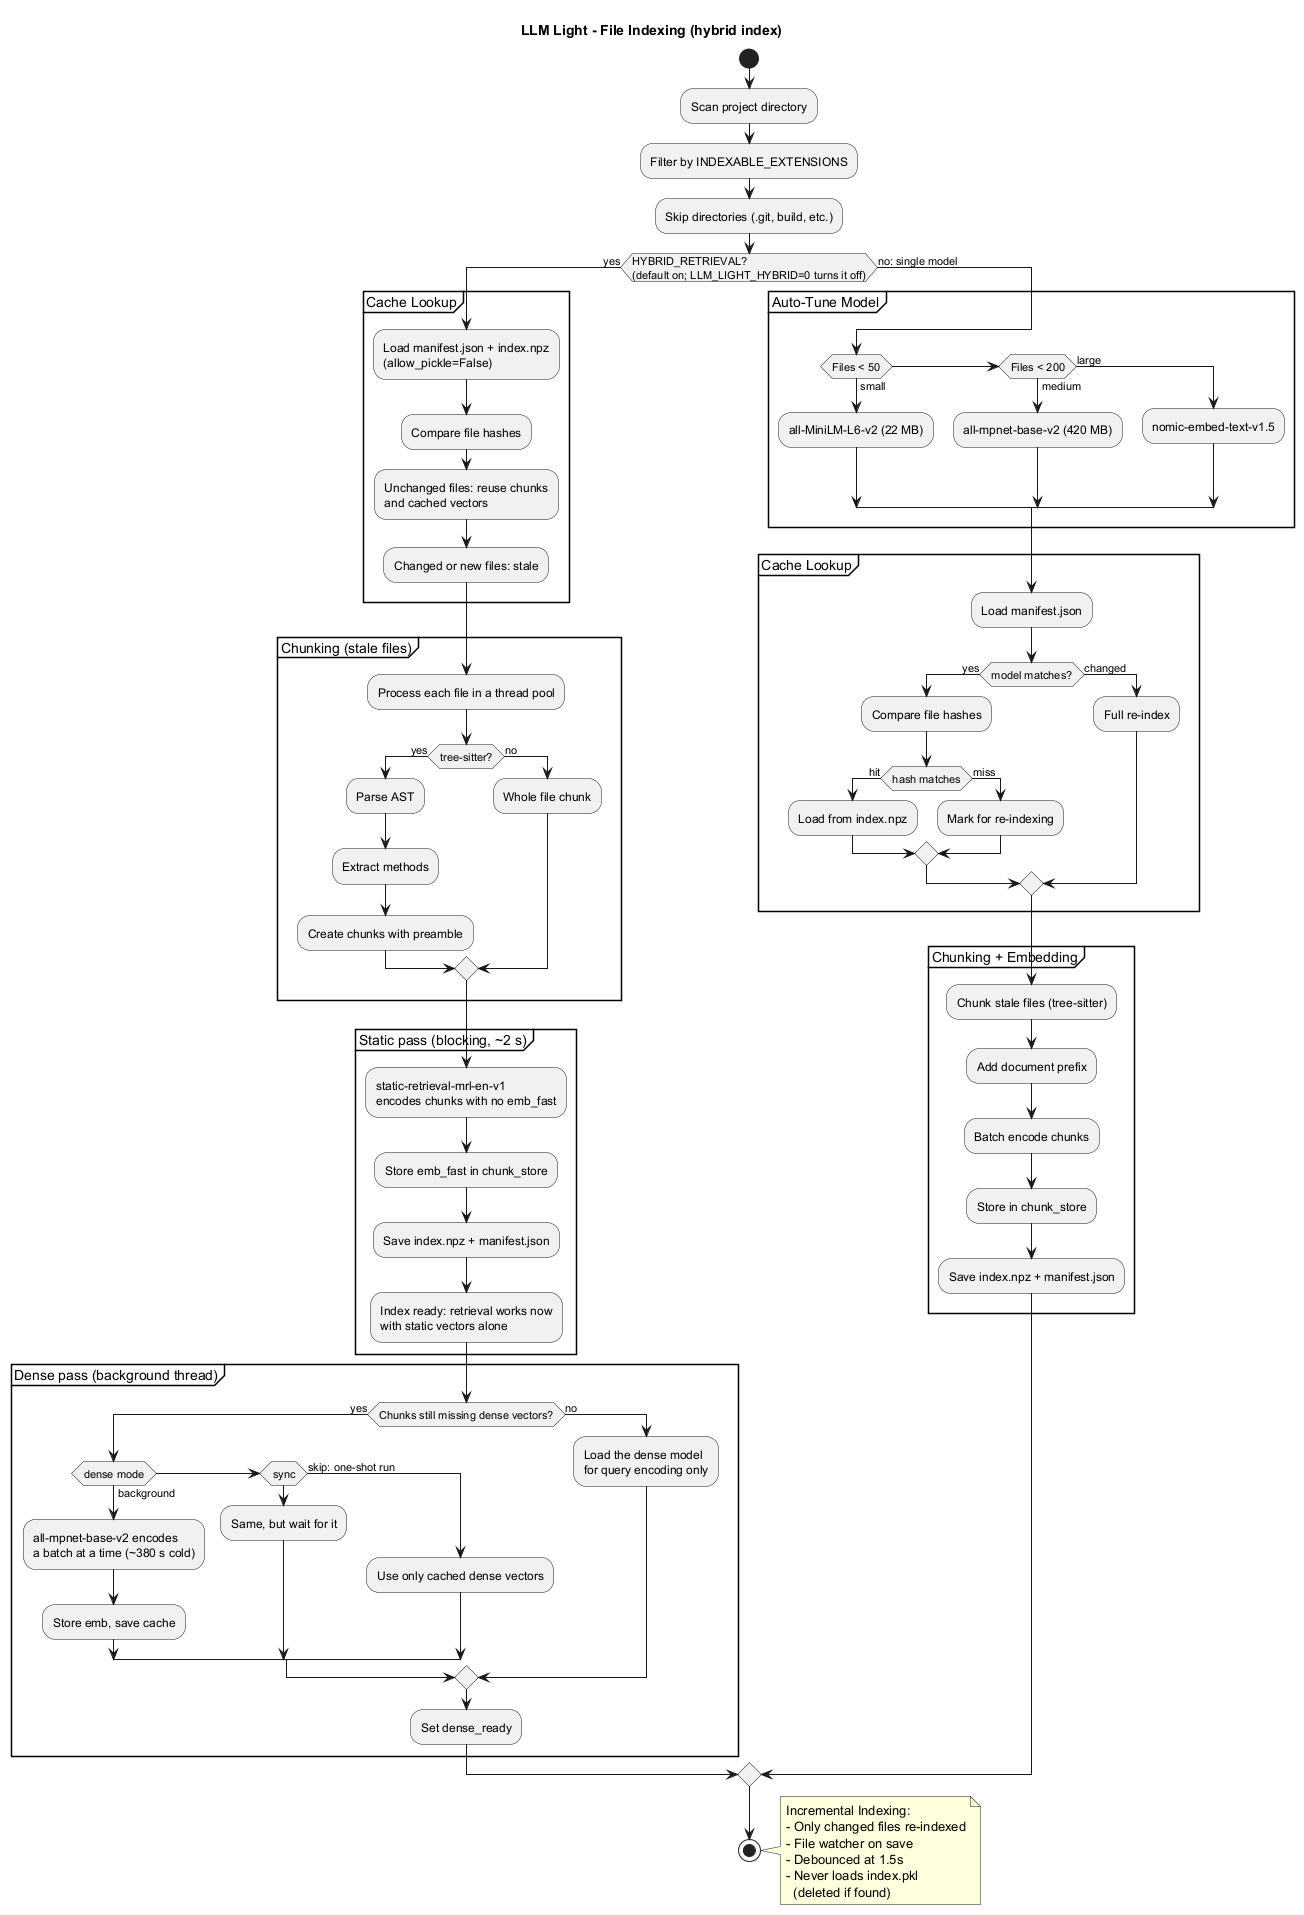
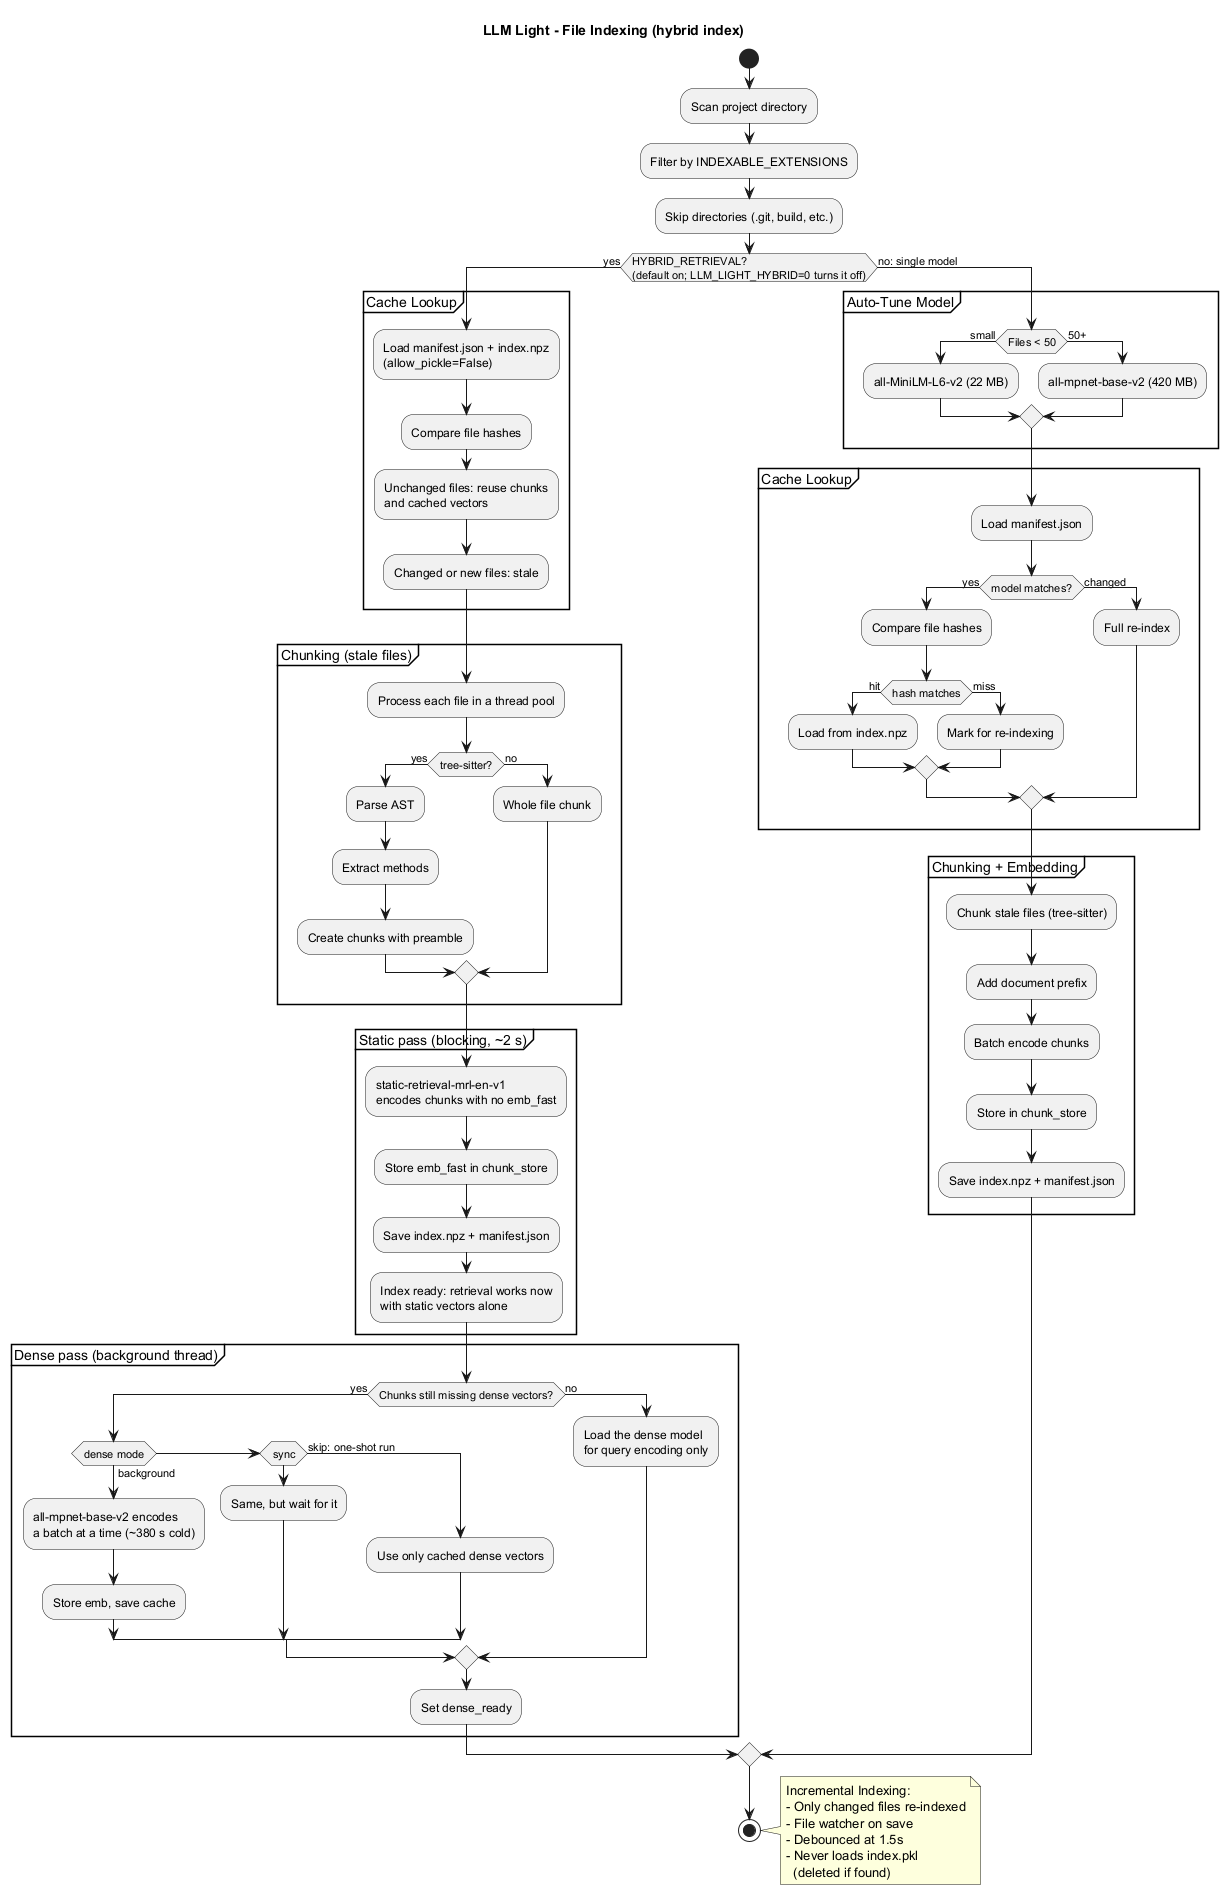
Pick all-mpnet-base-v2 for large projects in dense-only mode
With LLM_LIGHT_HYBRID=0, auto_tune chose nomic-ai/nomic-embed-text-v1.5
for a project of 200 or more files. With the dependencies
requirements.txt installs today (transformers 5.23.0,
sentence-transformers 6.3.0) that model fails on its first encode:
"'NomicBertModel' object has no attribute
'get_extended_attention_mask'", reproduced through
executor._load_embedding_model. Large projects now get
all-mpnet-base-v2, the dense model hybrid mode already uses.

The three tests that pinned the nomic choice (250 files in
test_executor.py and test_llm_light.py, exactly 200) now expect mpnet;
they failed before the change. The retrieval benchmark's copy of the
selection, the README, indexing.md (table and diagram), BENCHMARKS.md
and indexing_flow.puml with its re-rendered PNG follow. The nomic
prefixes and size entry stay as generic support; nothing selects nomic
now.

Not measured: nomic against mpnet on a large project, since nomic does
not load. The test.yml steps pass locally.

Fixes #306

Changed region(s): [[0.0, 0.0, 1.0, 0.934], [0.2785, 0.8095, 0.8046, 0.9963], [0.2166, 0.8406, 0.2476, 0.8718]]

diff --git a/tests/unit/test_llm_light.py b/tests/unit/test_llm_light.py
@@ -683,7 +683,8 @@ class TestAutoTune(unittest.TestCase):
             auto_tune(files, quiet=True)
             self.assertEqual(cl.EMBED_MODEL, "all-mpnet-base-v2")
 
-    def test_large_repo_selects_nomic(self):
+    def test_large_repo_selects_mpnet(self):
+        # nomic-embed-text-v1.5 fails to load with transformers 5 (#306).
         import llm_light as cl
         files = self._make_files(250)
         with patch("llm_light.SentenceTransformer") as mock_st, \
@@ -692,7 +693,7 @@ class TestAutoTune(unittest.TestCase):
             cl.EMBED_MODEL = None
             cl.embedder = None
             auto_tune(files, quiet=True)
-            self.assertEqual(cl.EMBED_MODEL, "nomic-ai/nomic-embed-text-v1.5")
+            self.assertEqual(cl.EMBED_MODEL, "all-mpnet-base-v2")
 
     def test_sets_top_k_from_chunks(self):
         import llm_light as cl
@@ -5865,8 +5866,8 @@ class TestAutoTuneBoundaries(unittest.TestCase):
             auto_tune(files, quiet=True)
         self.assertEqual(cl.EMBED_MODEL, "all-mpnet-base-v2")
 
-    def test_exactly_200_files_selects_nomic(self):
-        """Boundary: exactly 200 files should select nomic."""
+    def test_exactly_200_files_selects_mpnet(self):
+        """Boundary: 200 files and up get all-mpnet-base-v2, not nomic (#306)."""
         import llm_light as cl
         files = self._make_files(200)
         with patch("llm_light.SentenceTransformer") as mock_st:
@@ -5874,7 +5875,7 @@ class TestAutoTuneBoundaries(unittest.TestCase):
             cl.EMBED_MODEL = None
             cl.embedder = None
             auto_tune(files, quiet=True)
-        self.assertEqual(cl.EMBED_MODEL, "nomic-ai/nomic-embed-text-v1.5")
+        self.assertEqual(cl.EMBED_MODEL, "all-mpnet-base-v2")
 
     def test_top_k_clamped_to_min_2(self):
         """Very large average chunk size should clamp TOP_K to 2."""

diff --git a/tests/benchmarks/benchmark_retrieval.py b/tests/benchmarks/benchmark_retrieval.py
@@ -39,8 +39,8 @@ METHODOLOGY
    c. Chunk files using the exact same tree-sitter logic as llm_light.py
       (lines 600-678), with whole-file fallback if tree-sitter is missing.
    d. Embed chunks with the same SentenceTransformer model that llm_light
-      would auto_tune to (lines 692-700): MiniLM for <50 files, mpnet for
-      50-199, nomic for 200+.
+      would auto_tune to: MiniLM for <50 files, mpnet from 50 up (nomic was
+      picked for 200+ until it stopped loading with transformers 5, #306).
    e. Embed the problem_statement (using the same query prefix convention).
    f. Rank chunks by cosine similarity. Extract unique file paths from top-K.
    g. Compare against gold files parsed from the instance's patch field.
@@ -170,11 +170,10 @@ SKIP_DIRS = {
 INDEXABLE_EXTENSIONS = {".java", ".py", ".js", ".go", ".rs", ".ts", ".tsx"}
 
 # Embedding model selection thresholds -- from llm_light.py auto_tune() lines 692-700
-# < 50 files -> MiniLM, 50-199 -> mpnet, 200+ -> nomic
+# < 50 files -> MiniLM, 50+ -> mpnet (nomic for 200+ until #306)
 EMBED_THRESHOLDS = [
     (50,  "all-MiniLM-L6-v2"),
-    (200, "all-mpnet-base-v2"),
-    (None, "nomic-ai/nomic-embed-text-v1.5"),
+    (None, "all-mpnet-base-v2"),
 ]
 
 # Nomic model needs explicit prefixes -- from llm_light.py lines 204-205
@@ -341,7 +340,7 @@ def select_embed_model(n_files: int) -> str:
     for threshold, model in EMBED_THRESHOLDS:
         if threshold is None or n_files < threshold:
             return model
-    return EMBED_THRESHOLDS[-1][1]  # nomic fallback
+    return EMBED_THRESHOLDS[-1][1]
 
 
 class TokenOverlapEmbedder:

diff --git a/tests/unit/test_executor.py b/tests/unit/test_executor.py
@@ -197,8 +197,9 @@ class TestAutoTune(unittest.TestCase):
             auto_tune(files, quiet=True)
         self.assertEqual(_state.EMBED_MODEL, "all-mpnet-base-v2")
 
-    def test_large_repo_selects_nomic(self):
-        print("\n  ▶ TestAutoTune.test_large_repo_selects_nomic")
+    def test_large_repo_selects_mpnet(self):
+        # nomic-embed-text-v1.5 fails to load with transformers 5 (#306).
+        print("\n  ▶ TestAutoTune.test_large_repo_selects_mpnet")
         files = self._make_files(250)
         _state.EMBED_MODEL = None
         _state.embedder = None
@@ -206,7 +207,7 @@ class TestAutoTune(unittest.TestCase):
              patch("llm_light.executor._Spinner"):
             mock_st.return_value = MagicMock()
             auto_tune(files, quiet=True)
-        self.assertEqual(_state.EMBED_MODEL, "nomic-ai/nomic-embed-text-v1.5")
+        self.assertEqual(_state.EMBED_MODEL, "all-mpnet-base-v2")
 
     def test_sets_top_k_from_chunks(self):
         print("\n  ▶ TestAutoTune.test_sets_top_k_from_chunks")

diff --git a/llm_light/executor.py b/llm_light/executor.py
@@ -308,10 +308,11 @@ def auto_tune(source_files, chunks=None, quiet=False, load_model=True):
     n = len(source_files)
     if n < 50:
         chosen_model = "all-MiniLM-L6-v2"
-    elif n < 200:
-        chosen_model = "all-mpnet-base-v2"
     else:
-        chosen_model = "nomic-ai/nomic-embed-text-v1.5"
+        # Not nomic-embed-text-v1.5 above 200 files any more: with transformers 5
+        # it fails on its first encode (#306). all-mpnet-base-v2 is the dense
+        # model the default hybrid mode uses.
+        chosen_model = "all-mpnet-base-v2"
 
     # Only load model if explicitly requested AND (model changed or not loaded)
     # This prevents loading on warm cache hits

diff --git a/CHANGELOG.md b/CHANGELOG.md
@@ -19,6 +19,7 @@ All notable changes to `llm-light` are listed here. Versions follow [Semantic Ve
 - **Retrieved code keeps its strings (#266).** Comments were removed from retrieved code with regexes that knew nothing about strings, so `"#ff8800"` became `"`, every `"https://..."` in Java, JavaScript, TypeScript, Go and Rust was cut at `//`, and Go's `regexp.MustCompile("a//b")` lost its tail. Comments are now taken from the tree-sitter parse, which knows a comment from a string, also in a single method body. On this repository 87 of 3,398 chunks now keep text they lost, for +0.26% retrieved-context tokens. Without a grammar the old regexes remain the fallback. That copied code still has no comments, so a SEARCH block built from it can miss (#290).
 - **The project walk leaves out what `.gitignore` excludes, and no longer descends into skipped directories (#267).** It ran `Path(".").rglob("*")` and filtered afterwards, so a `venv`, `dist` or generated-code directory was indexed, embedded and listed in the skeleton, and `node_modules` was walked on every start (46,102 paths in one Node project to keep 2,759). In a git work tree the walk is now `git ls-files --cached --others --exclude-standard`; elsewhere `os.walk` prunes skipped directories. `venv` and `dist` join `SKIP_DIRS`, which the API-mode tools and the affected-test search now share instead of keeping their own lists. On this repository: 252 files to 246, about 1,033 to 1,002 skeleton-tree tokens, and the walk from 507 ms to 25 ms.
 - **The skeleton's directory tree follows the files on disk (#268).** The project walk was cached at startup and never refreshed, so the tree in the system prompt kept deleted files and missed new ones, including a file the model had created a turn earlier, and a notebook added mid-session never brought in `NotebookEdit`. A tree refresh (the watcher's create, delete and move events) and a full skeleton rebuild now walk again; with #267's `git ls-files` that takes about 25 ms on this repository. Tested in `tests/unit/test_skeleton.py` (`TestTreeFollowsTheDisk`), including a create event through the real watcher handler.
+- **Dense-only mode works on large projects again (#306).** With `LLM_LIGHT_HYBRID=0`, a project of 200 or more files got `nomic-ai/nomic-embed-text-v1.5`, which fails on its first encode with the transformers 5 that `requirements.txt` now installs (`'NomicBertModel' object has no attribute 'get_extended_attention_mask'`). It now gets all-mpnet-base-v2, the dense model the default hybrid mode uses. The retrieval benchmark's own copy of the choice changes with it. The default hybrid mode was not affected.
 - **Importing llm_light no longer patches `pathlib.Path.unlink` for the whole process (#278).** The package replaced it with a version that swallowed `PermissionError`, a workaround for a test sandbox, so in llm_light and in every library a file that could not be deleted looked deleted. The patch is gone; the suite passes on Windows without it. Pruning old saved conversations, the one best-effort delete that could now fail into a command, skips a file it cannot remove.
 - **The retrieval budget counts what is sent (#288).** A second chunk from a file already in the context was charged its whole text, file preamble included, though the context sends that preamble once per file, so the budget filled before the context did. It is now charged its body. `benchmark_models.py --budgets` (which now reports rendered tokens): right file sent at high effort 33 of 37 instead of 32, other efforts unchanged, mean tokens sent within 1%.
 - **A reply cut off at the output limit no longer applies half its edits (#271).** With an API key, a reply that stopped at `max_tokens` inside an edit block came back with only the blocks before the cut, which were applied and committed without a word: one file of a two-file refactor. The stop reason now reaches the turn: a cut-off reply's edits are not applied, and llm_light says the reply was cut off. A refusal gets a line too. Not checked against the live API (#71).

diff --git a/README.md b/README.md
@@ -378,7 +378,7 @@ Code is indexed twice, by two models that are good at different questions:
 * **`static-retrieval-mrl-en-v1`** (static embeddings, no transformer): indexes this repo's 1,400 chunks in about 2 s on a CPU, so retrieval works from the first question. Best of six models measured at questions that name code ("where is `retry_with_backoff` used?").
 * **`all-mpnet-base-v2`**: about 380 s for the same chunks, so it runs in the background while you work, and its vectors are cached. Best at questions that describe behaviour without naming it ("where do we wait longer between attempts?").
 
-Once both are ready, each chunk's similarity to the question is z-scored per model and averaged. On 35 questions about this repo, the file that answers the question reached the model's context for 23, against 15 with mpnet alone (the setup before this change), and the 6 off-topic questions still got no context. Measure on your own changes with `python tests/benchmarks/benchmark_models.py`. `LLM_LIGHT_HYBRID=0` switches back to a single model picked by repository size (`all-MiniLM-L6-v2` under 50 files, `all-mpnet-base-v2` under 200, `nomic-ai/nomic-embed-text-v1.5` above).
+Once both are ready, each chunk's similarity to the question is z-scored per model and averaged. On 35 questions about this repo, the file that answers the question reached the model's context for 23, against 15 with mpnet alone (the setup before this change), and the 6 off-topic questions still got no context. Measure on your own changes with `python tests/benchmarks/benchmark_models.py`. `LLM_LIGHT_HYBRID=0` switches back to a single model picked by repository size (`all-MiniLM-L6-v2` under 50 files, `all-mpnet-base-v2` from 50 up).
 
 ### 🛡 Security & SBOM
 

diff --git a/docs/BENCHMARKS.md b/docs/BENCHMARKS.md
@@ -184,7 +184,7 @@ Retrieval modes (`--retrieval`, #69):
 
 | Mode | Models | Ranking |
 |---|---|---|
-| `auto` (default, CI) | one, by repo size (MiniLM, mpnet, nomic) | cosine, unfiltered |
+| `auto` (default, CI) | one, by repo size (MiniLM, mpnet) | cosine, unfiltered |
 | `dense` | `--dense-model` (default `DENSE_EMBED_MODEL`, mpnet) | cosine, unfiltered |
 | `static` | `FAST_EMBED_MODEL` | z-scores, `HYBRID_MIN_SCORE` floor, `HYBRID_SCORE_GAP` |
 | `hybrid` | `FAST_EMBED_MODEL` + `--dense-model` | fused z-scores, floors and gap, as llm_light's hybrid index |
@@ -278,8 +278,7 @@ python tests/benchmarks/benchmark_retrieval.py --split dev --retrieval hybrid
 |---|---|
 | HuggingFace dataset | ~50 MB |
 | Embedding model (MiniLM, < 50 files) | 22 MB |
-| Embedding model (mpnet, 50-199 files) | 420 MB |
-| Embedding model (nomic, 200+ files) | ~550 MB |
+| Embedding model (mpnet, 50+ files) | 420 MB |
 | Repo clones (treeless, all 6 repos) | ~300 MB |
 | Embedding cache | ~50–200 MB |
 

diff --git a/docs/architecture/indexing.md b/docs/architecture/indexing.md
@@ -16,8 +16,7 @@ Every chunk gets two vectors (#61). `indexer._index_files_hybrid()` first embeds
 | Repo Size | Model | Size | Use Case |
 |-----------|-------|------|----------|
 | < 50 files | all-MiniLM-L6-v2 | 22 MB | Fast startup |
-| 50-199 files | all-mpnet-base-v2 | 420 MB | Better depth |
-| 200+ files | nomic-embed-text-v1.5 | 275 MB | Optimal recall |
+| 50+ files | all-mpnet-base-v2 | 420 MB | Better depth; nomic-embed-text-v1.5 was picked above 200 files until it stopped loading with transformers 5 (#306) |
 
 ### Method-Level Chunking
 
@@ -112,10 +111,8 @@ else (no: single model)
   partition "Auto-Tune Model" {
     if (Files < 50) then (small)
       :all-MiniLM-L6-v2 (22 MB);
-    elseif (Files < 200) then (medium)
+    else (50+)
       :all-mpnet-base-v2 (420 MB);
-    else (large)
-      :nomic-embed-text-v1.5;
     endif
   }
 
